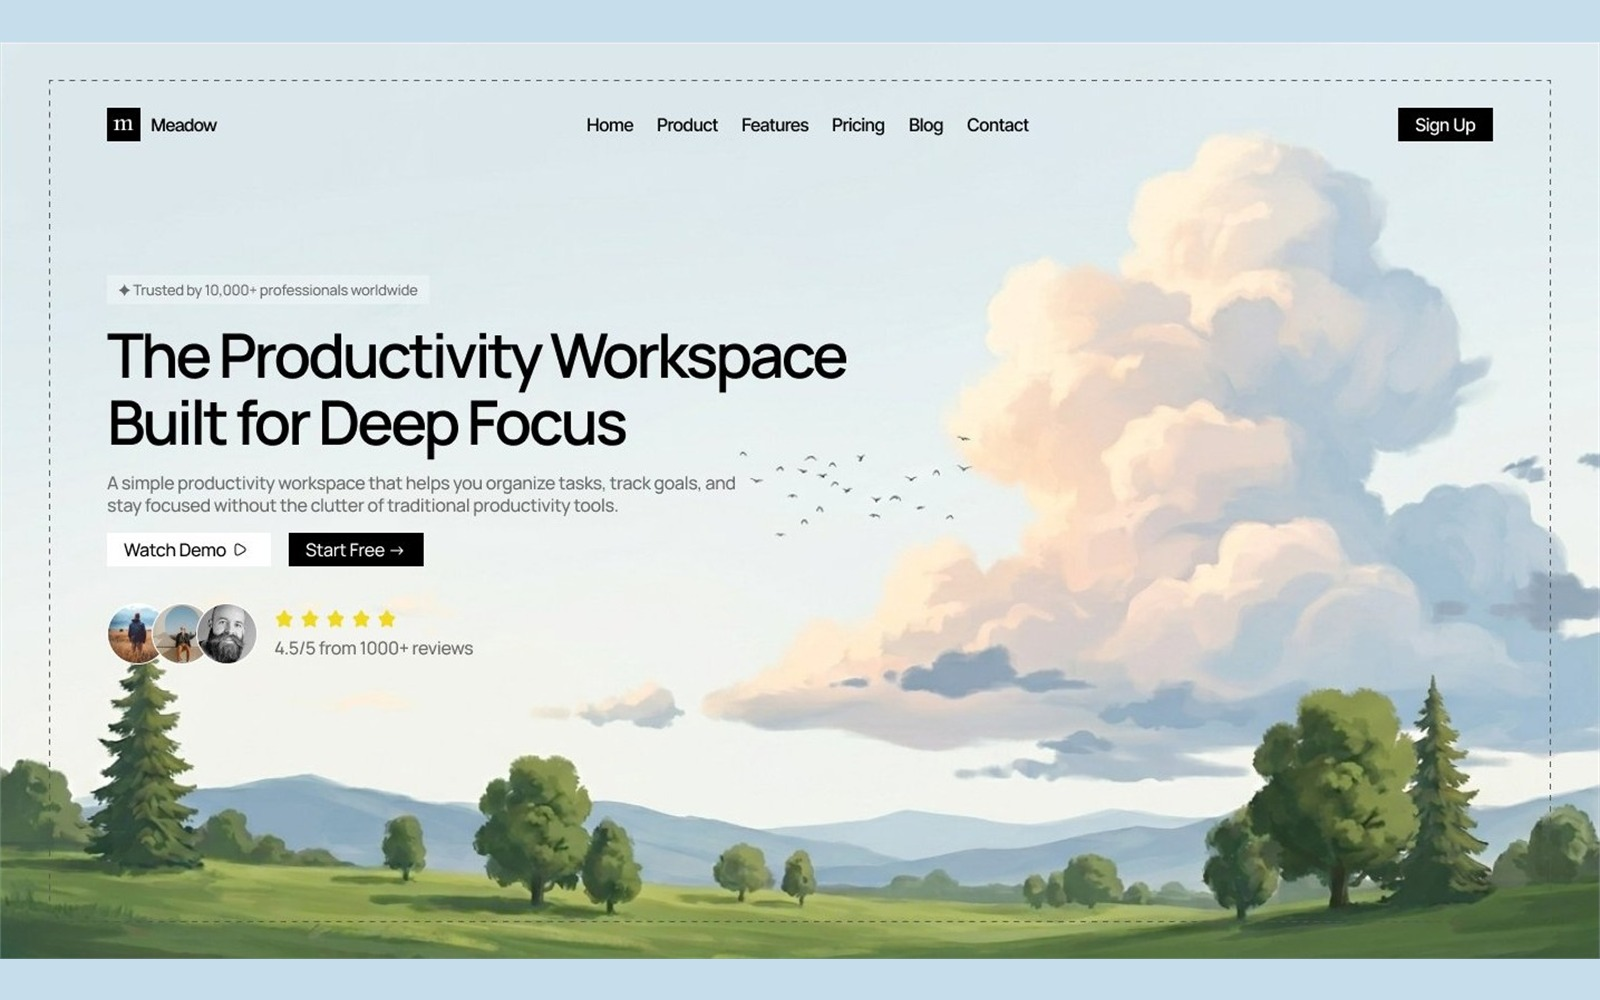
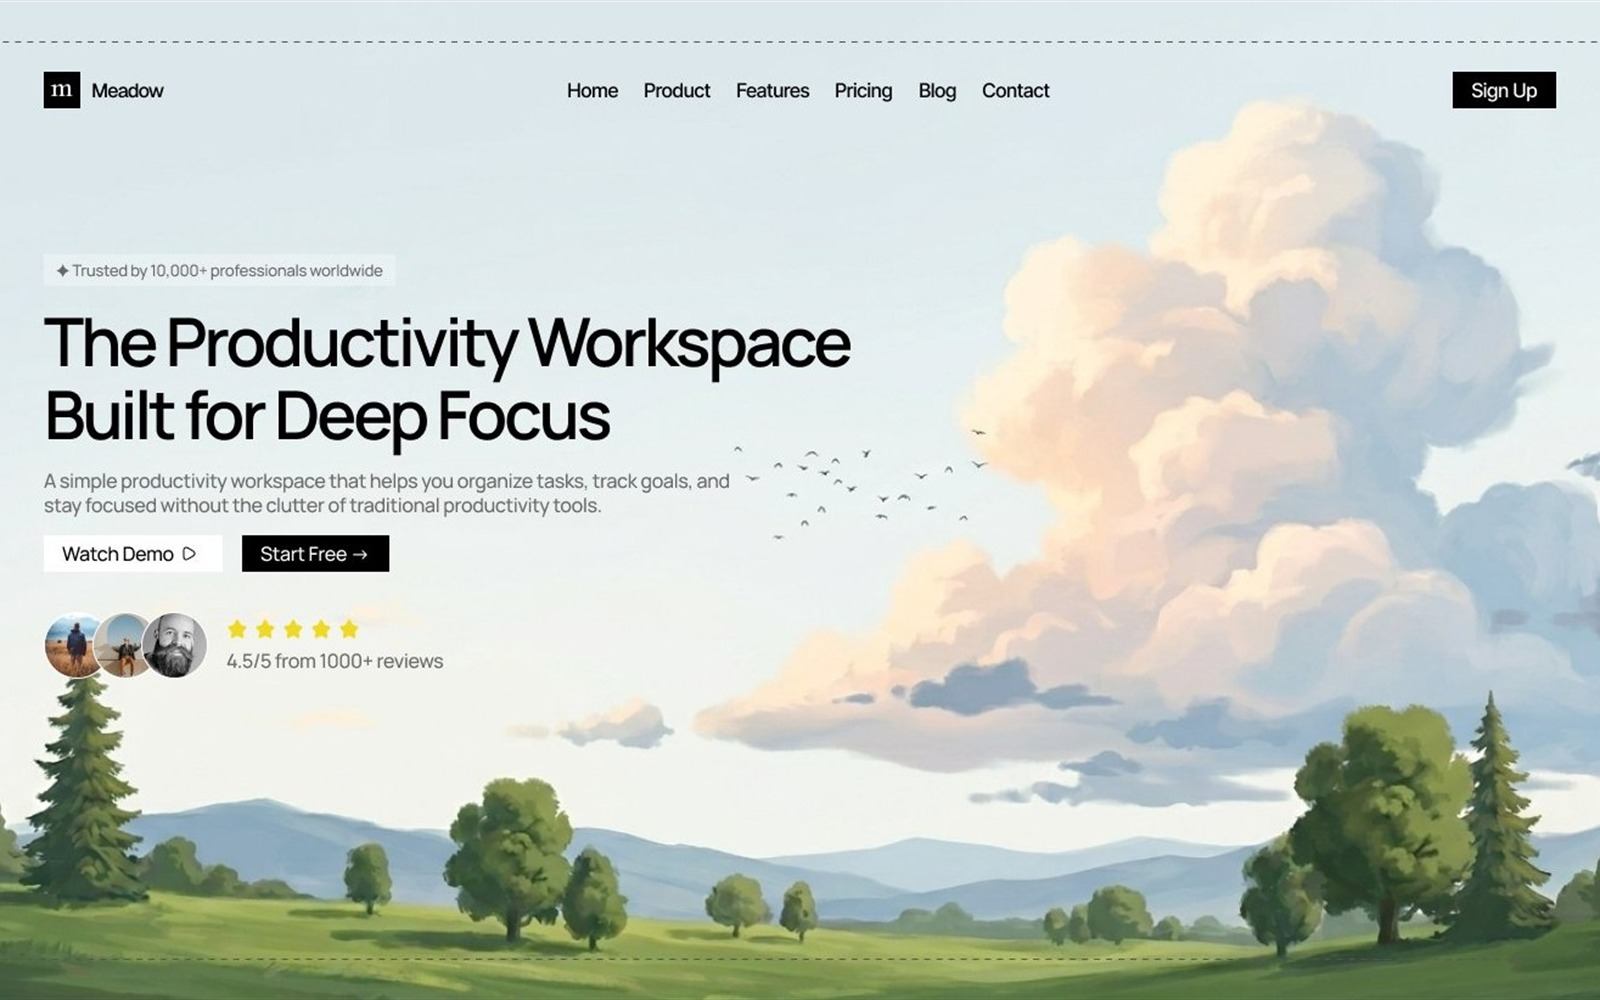
Refine category profiles and Meadow poster

diff --git a/src/styles.css b/src/styles.css
@@ -119,18 +119,18 @@ button:focus-visible, a:focus-visible, [tabindex]:focus-visible {
 
 .category-profile-name {
   color: var(--accent);
-  font-size: 10px;
+  font-size: 10.75px;
   font-weight: 700;
-  line-height: 1;
+  line-height: 1.1;
   text-transform: uppercase;
-  letter-spacing: .055em;
+  letter-spacing: .045em;
   white-space: nowrap;
 }
 
 .category-profile-thesis {
   color: var(--ink);
   font-size: 11px;
-  font-weight: 400;
+  font-weight: 700;
   line-height: 1.4;
 }
 
@@ -175,12 +175,12 @@ button:focus-visible, a:focus-visible, [tabindex]:focus-visible {
 }
 
 .category-profile-details dt {
-  color: var(--muted);
-  font-size: 9px;
+  color: var(--ink);
+  font-size: 10px;
   font-weight: 700;
   line-height: 1;
   text-transform: uppercase;
-  letter-spacing: .05em;
+  letter-spacing: .035em;
 }
 
 .category-profile-details dd {

diff --git a/tests/references.test.ts b/tests/references.test.ts
@@ -219,10 +219,11 @@ describe('reference manifest', () => {
     }
   });
 
-  it('uses smart crops only for the four affected grid posters', () => {
+  it('uses smart crops only for the five affected grid posters', () => {
     const expectedMedia = {
       58: { poster: '/assets/posters/image-20.jpg', detail: '/assets/originals/20.jpg' },
       59: { poster: '/assets/posters/image-21.jpg', detail: '/assets/originals/21.jpg' },
+      60: { poster: '/assets/posters/image-22.jpg', detail: '/assets/originals/22.jpg' },
       62: { poster: '/assets/posters/image-24.jpg', detail: '/assets/originals/24.jpg' },
       63: { poster: '/assets/posters/image-25.jpg', detail: '/assets/originals/25.jpg' },
     } as const;

diff --git a/README.md b/README.md
@@ -49,7 +49,7 @@ Run `npm run release:check` before a release. It validates scripts and the skill
 - The 25 active image files are copied byte-for-byte from `archive/Example Websites Images` to `public/assets/originals`. Superseded source files are retained under `archive/Superseded Source Images` and in Git history.
 - Current website captures live in `public/assets/site-captures`; accidental browser scrollbar tracks are cropped from the affected captures.
 - Runtime media resolves from the exported catalog's `publicAssetRoot` plus each card's `/assets/...` path. These ordinary Git files under `public/assets` are the only media required by the portal; Git LFS stores historical evidence only.
-- Uniform 1600×1000 derivatives live in `public/assets/posters`. Most use a high-quality non-generative bicubic crop; supplied images 20–25 use a matching background mat and contain fit so important edge content is not removed.
+- Uniform 1600×1000 derivatives live in `public/assets/posters`. Most use a high-quality non-generative bicubic crop. Supplied images 20, 21, 22, 24, and 25 use card-specific smart crops; image 23 uses a matching background mat and contain fit. Detail views continue to use the uncropped originals.
 - Muted 1440×900 H.264 High Profile previews live in `public/assets/motion`. They were recorded directly from Spade, SSTR, Igloo, Lusion, Schemas of Uncertainty, System Patch, Oqoqo, Aside, Jitter, Coda, Paper, Cursor, Plinth, and Fin at a verified 30 fps with hardware-accelerated Chrome, frame-synchronized interaction, hidden scrollbars, and offline quality-focused encoding. Scrolling recipes refresh the document height while recording and fail unless they reach the verified bottom. The 60 fps proof was rejected because this computer could not sustain 60 real captured frames per second; no frames were interpolated or relabelled. No third-party gallery recordings are used.
 - Capture-only browser and encoding dependencies are excluded from the production app. Selected historical takes and review evidence are retained under `archive/Capture History`; new scratch captures remain ignored until deliberately promoted.
 - The exact hardware-capture recipes and encoding settings are tracked under `capture-tools`; see `capture-tools/README.md`. New temporary takes, browser profiles, and contact sheets remain ignored under `capture-work` until deliberately promoted into the archive.

diff --git a/skills/design-taste-injection/references/workflow.md b/skills/design-taste-injection/references/workflow.md
@@ -104,4 +104,4 @@ Run the Impeccable route in `polish.md`. Keep changes that improve clarity, hier
 
 ## 8. Finish
 
-Verify responsive widths, keyboard flow, focus, contrast, reduced motion, loading, media fallback, and production build. Record successful verification before setting state to `complete`; schema v4 rejects completion without a selected final generation and passed verification. Report final lineage, references and roles, build path, hero provider, adaptations, evidence limits, tests, and remaining constraints.
+Verify responsive widths, keyboard flow, focus, contrast, reduced motion, loading, media fallback, and production build. Record successful verification before setting state to `complete`; schema v5 rejects completion without a selected final generation and passed verification. Report final lineage, references and roles, build path, hero provider, adaptations, evidence limits, tests, and remaining constraints.
